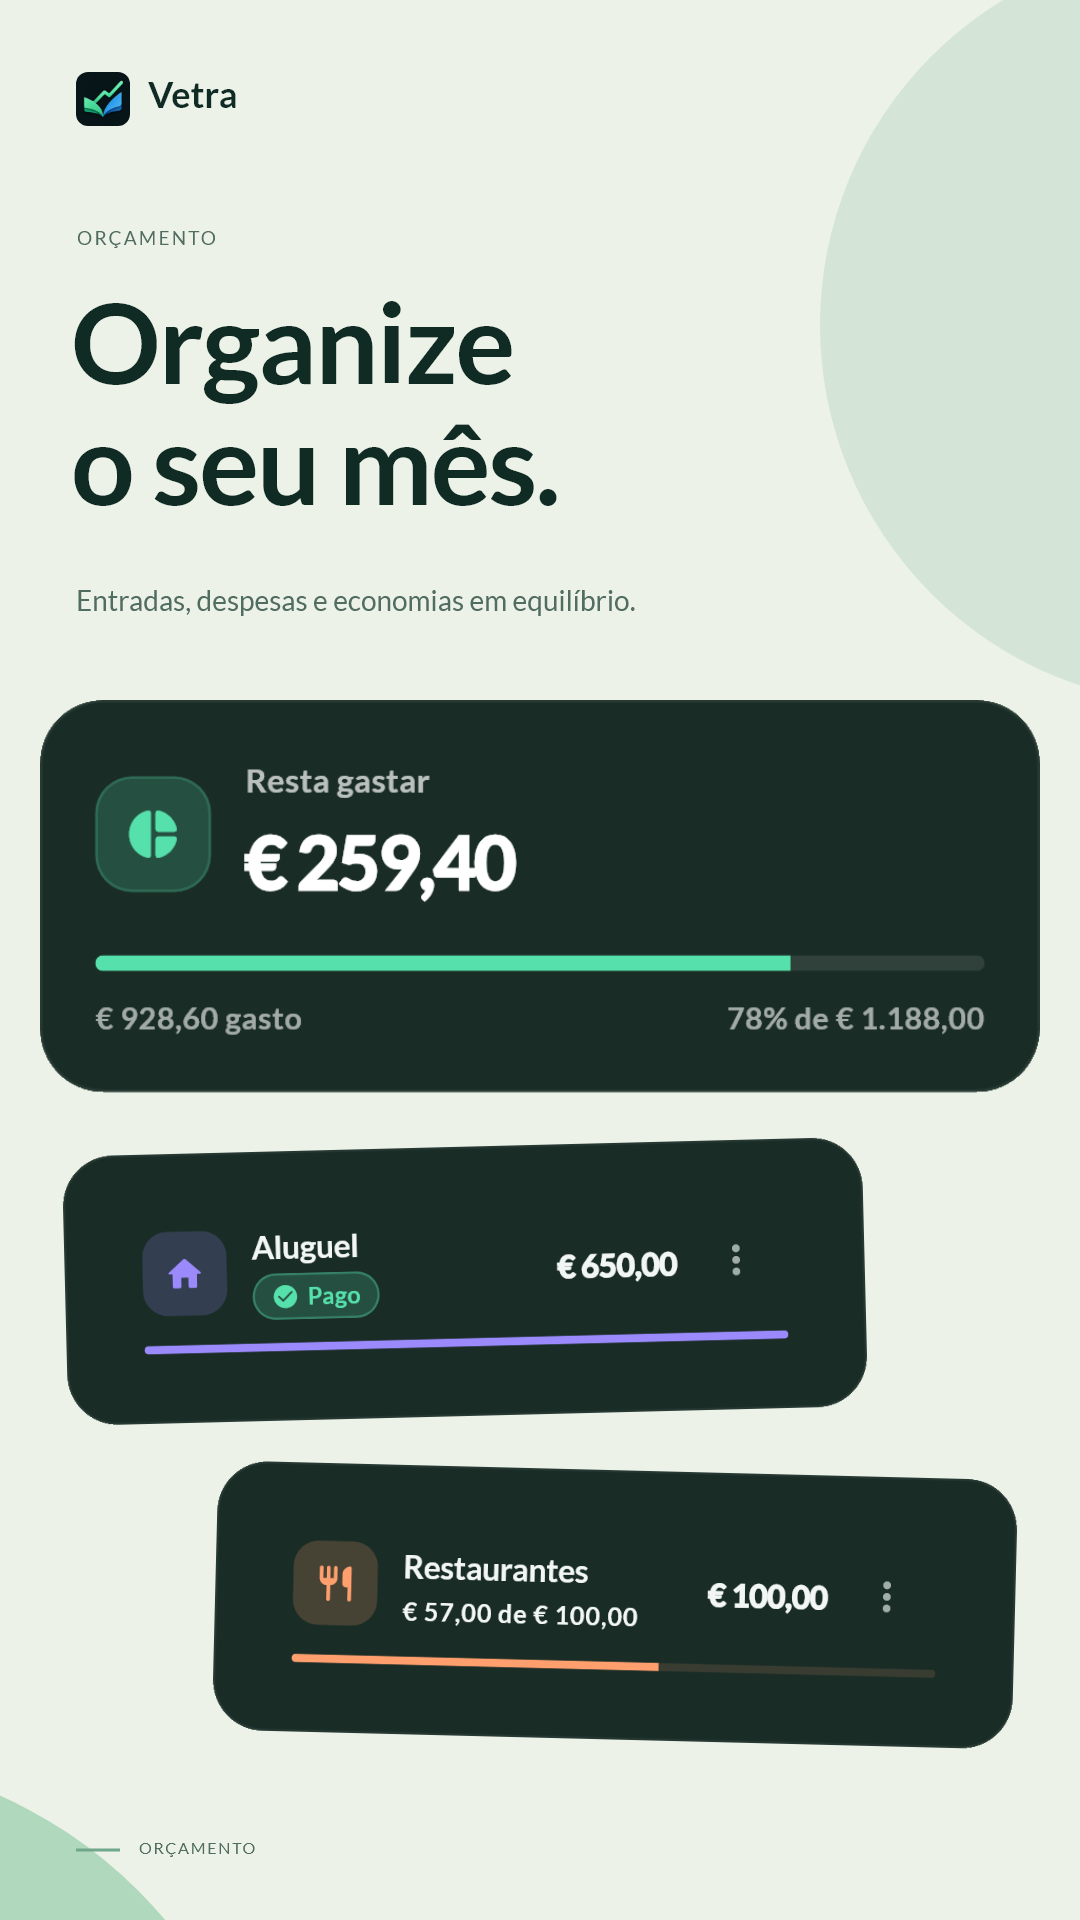
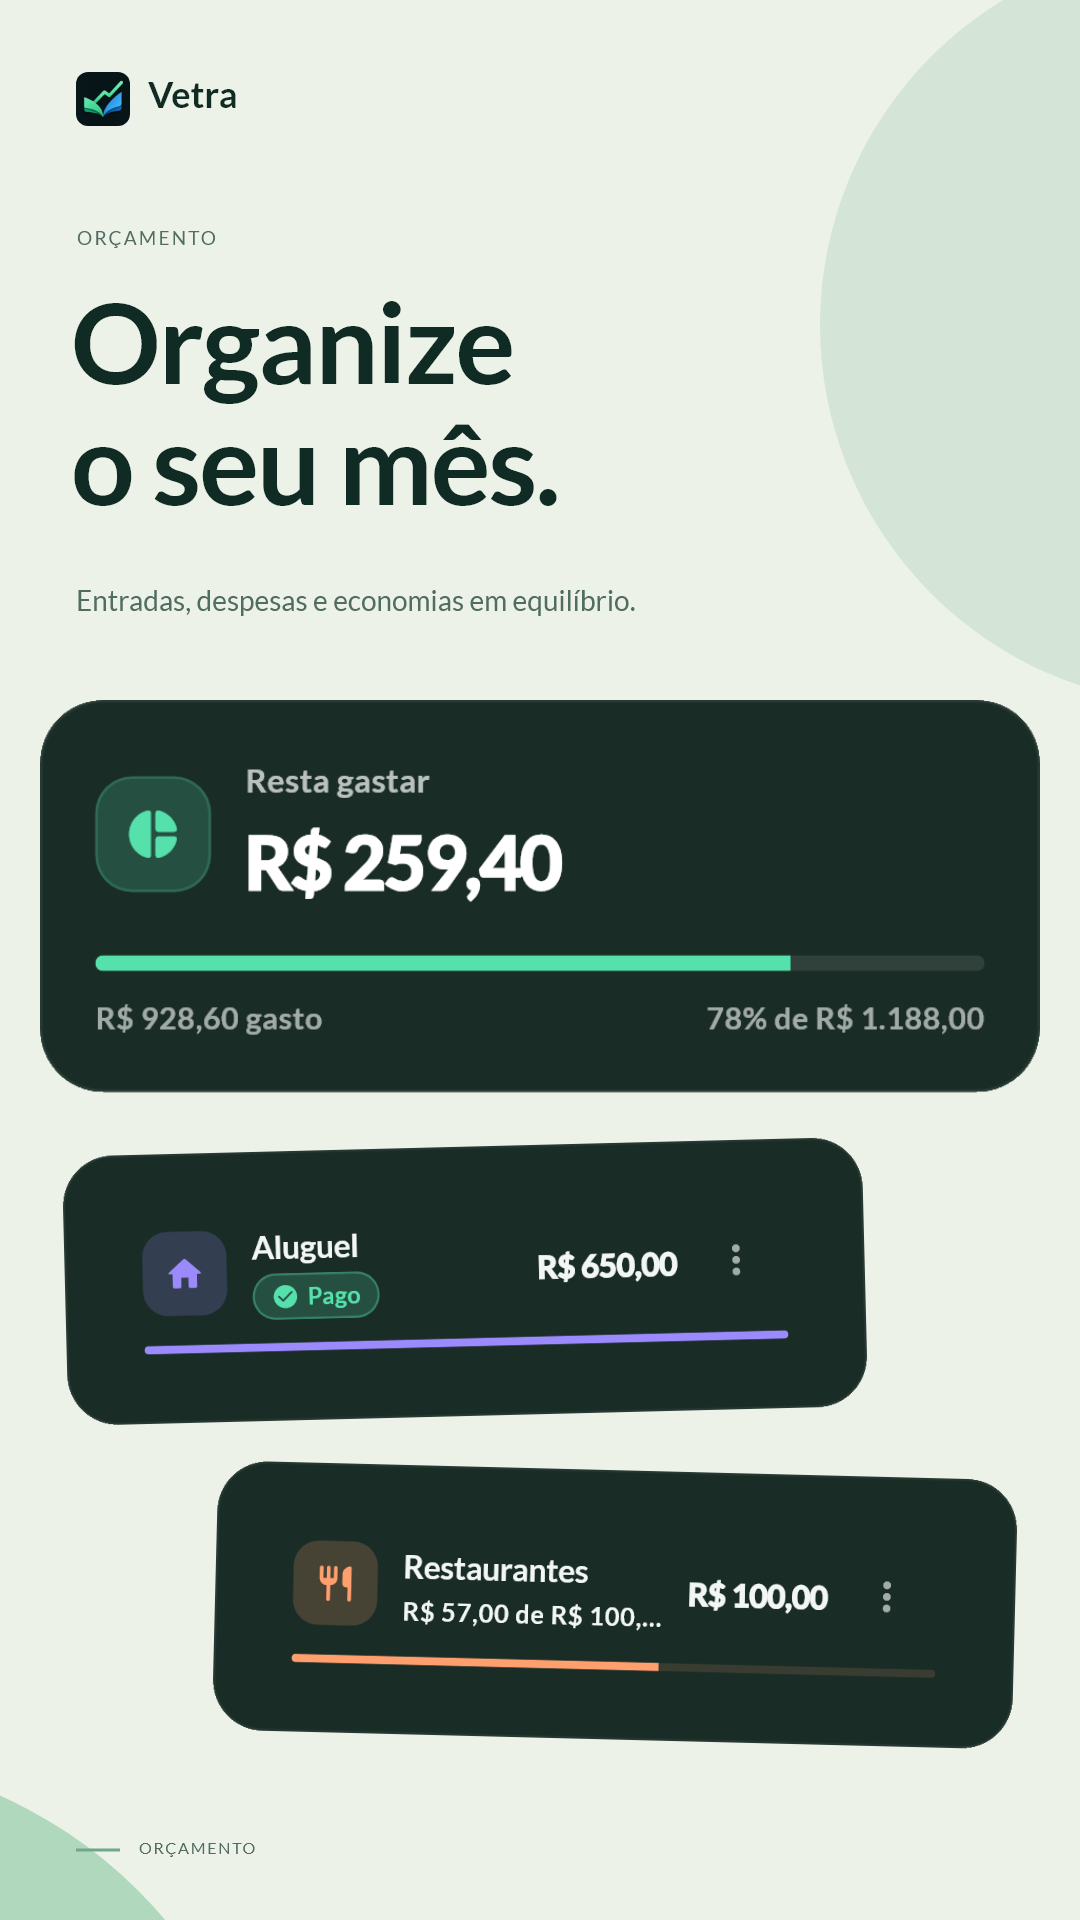
feat(locale): add British English and regional app artwork

diff --git a/src/content/translations/en.ts b/src/content/translations/en.ts
@@ -2,14 +2,14 @@ import type { SiteCopy } from '../types';
 export default {
   meta: {
     description:
-      'Organise expenses, plan your month and make room for savings. Discover Vetra, your personal finance app without ads, with optional cloud sync.',
+      'Organize expenses, plan your month and make room for savings. Discover Vetra, your personal finance app without ads, with optional cloud sync.',
   },
   nav: {
     features: 'Discover',
     faq: 'Questions',
     download: 'View on Google Play',
     language: 'Language',
-    theme: 'Change colour theme',
+    theme: 'Change color theme',
     skip: 'Skip to content',
   },
   hero: {
@@ -53,7 +53,7 @@ export default {
   trust: {
     eyebrow: 'YOUR MONEY. YOUR DECISIONS.',
     title: 'A calmer place for your finances.',
-    text: 'No advertising in the way. No bank connection required. You decide whether to use cloud synchronisation.',
+    text: 'No advertising in the way. No bank connection required. You decide whether to use cloud synchronization.',
     items: [
       {
         title: 'Works offline',
@@ -74,19 +74,19 @@ export default {
     items: [
       {
         title: 'Does Vetra connect to my bank?',
-        text: 'No. You register your accounts and transactions yourself. Vetra is an organiser, not a banking service.',
+        text: 'No. You register your accounts and transactions yourself. Vetra is an organizer, not a banking service.',
       },
       {
         title: 'Which currencies can I use?',
         text: 'Choose EUR, USD, GBP, CNY, CHF, AUD, CAD or BRL during onboarding. Your chosen main currency applies to your finances; changing it later is not currently available.',
       },
       {
-        title: 'Do I have to synchronise?',
+        title: 'Do I have to synchronize?',
         text: 'No. Cloud sync is optional. For local use, keep an up-to-date Vetra backup somewhere safe.',
       },
       {
         title: 'Can I use it without Internet?',
-        text: 'Yes, after initial setup. Authentication, synchronisation and other online services require Internet.',
+        text: 'Yes, after initial setup. Authentication, synchronization and other online services require Internet.',
       },
       {
         title: 'How can I try the app?',

diff --git a/tests/images.test.ts b/tests/images.test.ts
@@ -1,6 +1,7 @@
 import { describe, expect, it } from 'vitest';
 import { validateManifest } from '../tool/validate-images.mjs';
-const languages = ['en', 'pt', 'pt-BR', 'es', 'fr', 'de', 'it', 'zh-Hans'];
+const languages = ['en', 'en-GB', 'pt', 'pt-BR', 'es', 'fr', 'de', 'it', 'zh-Hans'];
+const currencyByLocale: Record<string, string> = { en: 'USD', 'en-GB': 'GBP', pt: 'EUR', 'pt-BR': 'BRL', es: 'EUR', fr: 'EUR', de: 'EUR', it: 'EUR', 'zh-Hans': 'CNY' };
 const scenes = [
   'overview',
   'transactions',
@@ -13,11 +14,14 @@ const scenes = [
 ];
 const fixture = () => ({
   status: 'complete',
+  generator: 'vetra-store-artwork-v3',
+  currencyByLocale,
   fictionalDataOnly: true,
   locales: languages,
   assets: languages.flatMap((locale) =>
     scenes.map((scene) => ({
       locale,
+      currency: currencyByLocale[locale],
       scene,
       device: 'phone',
       kind: 'artwork',
@@ -29,7 +33,14 @@ const fixture = () => ({
 });
 describe('source artwork validation', () => {
   it('accepts a complete fictional phone set', () => {
-    expect(validateManifest(fixture()).assets).toHaveLength(64);
+    expect(validateManifest(fixture()).assets).toHaveLength(72);
+  });
+  it('rejects old EUR batches and wrongly labelled regional images', () => {
+    expect(() => validateManifest({ ...fixture(), generator: 'vetra-store-artwork-v2' })).toThrow();
+    const wrong = fixture();
+    wrong.assets[0].currency = 'EUR';
+    expect(() => validateManifest(wrong)).toThrow();
+    expect(() => validateManifest({ ...fixture(), currencyByLocale: { ...currencyByLocale, en: 'EUR' } })).toThrow();
   });
   it('rejects incomplete or non-fictional sets', () => {
     expect(() => validateManifest({ ...fixture(), status: 'partial' })).toThrow();

diff --git a/src/content/translations/en-gb.ts b/src/content/translations/en-gb.ts
@@ -1,0 +1,17 @@
+import en from './en';
+import type { SiteCopy } from '../types';
+
+// Shared English copy; only regional spelling differs, never product promises.
+export default {
+  ...en,
+  meta: { description: 'Organise expenses, plan your month and make room for savings. Discover Vetra, your personal finance app without ads, with optional cloud sync.' },
+  nav: { ...en.nav, theme: 'Change colour theme' },
+  trust: { ...en.trust, text: 'No advertising in the way. No bank connection required. You decide whether to use cloud synchronisation.' },
+  faq: { ...en.faq, items: [
+    { title: 'Does Vetra connect to my bank?', text: 'No. You register your accounts and transactions yourself. Vetra is an organiser, not a banking service.' },
+    en.faq.items[1],
+    { title: 'Do I have to synchronise?', text: 'No. Cloud sync is optional. For local use, keep an up-to-date Vetra backup somewhere safe.' },
+    { title: 'Can I use it without Internet?', text: 'Yes, after initial setup. Authentication, synchronisation and other online services require Internet.' },
+    en.faq.items[4],
+  ] },
+} satisfies SiteCopy;

diff --git a/tests/browser-preferences.test.ts b/tests/browser-preferences.test.ts
@@ -5,7 +5,8 @@ describe('browser language', () => {
   it.each([
     [['pt-BR', 'en'], 'pt-br'],
     [['pt-PT'], 'pt'],
-    [['en-GB'], 'en'],
+    [['en-GB'], 'en-gb'],
+    [['en-US'], 'en'],
     [['es-MX'], 'es'],
     [['fr-CA'], 'fr'],
     [['de-CH'], 'de'],
@@ -19,6 +20,11 @@ describe('browser language', () => {
   });
   it('keeps manual English when the browser prefers Portuguese', () => {
     expect(preferences.languageRedirect('/Vetra_webpage/', ['pt'], 'en')).toBeNull();
+  });
+  it('keeps manual American English on a British browser', () => {
+    expect(preferences.languageRedirect('/Vetra_webpage/', ['en-GB'], 'en')).toBeNull();
+    expect(preferences.languageRedirect('/Vetra_webpage/', ['en-GB'], null)).toBe('/Vetra_webpage/en-gb/');
+    expect(preferences.languageRedirect('/Vetra_webpage/en-gb/', ['en-US'], 'en')).toBeNull();
   });
   it('redirects the default page but respects an explicitly localized link', () => {
     expect(preferences.languageRedirect('/Vetra_webpage/', ['pt'], null)).toBe(

diff --git a/src/content/locales.ts b/src/content/locales.ts
@@ -3,7 +3,8 @@ import type { LocaleId } from './types';
 export type { LocaleId } from './types';
 
 export const locales: { id: LocaleId; label: string; lang: string; capture: string }[] = [
-  { id: 'en', label: 'English', lang: 'en', capture: 'en' },
+  { id: 'en', label: 'English (United States)', lang: 'en-US', capture: 'en' },
+  { id: 'en-gb', label: 'English (United Kingdom)', lang: 'en-GB', capture: 'en-GB' },
   { id: 'pt', label: 'Português', lang: 'pt-PT', capture: 'pt' },
   { id: 'pt-br', label: 'Português (Brasil)', lang: 'pt-BR', capture: 'pt-BR' },
   { id: 'es', label: 'Español', lang: 'es', capture: 'es' },
@@ -21,7 +22,8 @@ export function privacyPath(locale: LocaleId, anchor?: string): string {
   return `${localePath(locale)}privacy.html${anchor ? `#${encodeURIComponent(anchor)}` : ''}`;
 }
 export const flagFiles: Record<LocaleId, string> = {
-  en: 'en',
+  en: 'en_us',
+  'en-gb': 'en_gb',
   pt: 'pt',
   'pt-br': 'pt_br',
   es: 'es',

diff --git a/src/content/privacy/index.ts b/src/content/privacy/index.ts
@@ -1,4 +1,5 @@
 import en from './en';
+import enGB from './en-gb';
 import pt from './pt';
 import ptBR from './pt-br';
 import es from './es';
@@ -9,7 +10,7 @@ import zh from './zh';
 import type { LocaleId } from '../types';
 import type { PrivacyCopy } from './types';
 
-const policies: Record<LocaleId, PrivacyCopy> = { en, pt, 'pt-br': ptBR, es, fr, de, it, zh };
+const policies: Record<LocaleId, PrivacyCopy> = { en, 'en-gb': enGB, pt, 'pt-br': ptBR, es, fr, de, it, zh };
 export const getPrivacy = (locale: LocaleId): PrivacyCopy => policies[locale];
 export const controller = { name: 'Henrique Correia', updated: '2026-10-08' } as const;
 export const providerLinks = [

diff --git a/src/content/copy.ts b/src/content/copy.ts
@@ -1,5 +1,6 @@
 import type { LocaleId, SiteCopy } from './types';
 import en from './translations/en';
+import enGB from './translations/en-gb';
 import pt from './translations/pt';
 import ptBr from './translations/pt-br';
 import es from './translations/es';
@@ -8,5 +9,5 @@ import de from './translations/de';
 import it from './translations/it';
 import zh from './translations/zh';
 
-export const allCopy: Record<LocaleId, SiteCopy> = { en, pt, 'pt-br': ptBr, es, fr, de, it, zh };
+export const allCopy: Record<LocaleId, SiteCopy> = { en, 'en-gb': enGB, pt, 'pt-br': ptBr, es, fr, de, it, zh };
 export const getCopy = (locale: LocaleId): SiteCopy => allCopy[locale];

diff --git a/src/scripts/preferences.ts b/src/scripts/preferences.ts
@@ -48,6 +48,7 @@ export function browserLocale(languages: readonly string[]): LocaleId {
     )
       continue;
     if (language === 'pt' && parts.includes('br')) return 'pt-br';
+    if (language === 'en' && parts.includes('gb')) return 'en-gb';
     const found = locales.find((item) => item.id === language);
     if (found) return found.id;
   }

diff --git a/src/content/types.ts b/src/content/types.ts
@@ -1,4 +1,4 @@
-export type LocaleId = 'en' | 'pt' | 'pt-br' | 'es' | 'fr' | 'de' | 'it' | 'zh';
+export type LocaleId = 'en' | 'en-gb' | 'pt' | 'pt-br' | 'es' | 'fr' | 'de' | 'it' | 'zh';
 export type Section = { eyebrow: string; title: string; text: string };
 export type Item = { title: string; text: string };
 export type SiteCopy = {

diff --git a/tests/build.test.ts b/tests/build.test.ts
@@ -8,7 +8,8 @@ function output() {
   const root = mkdtempSync(join(tmpdir(), 'vetra-site-test-'));
   roots.push(root);
   for (const [path, lang] of [
-    ['', 'en'],
+    ['', 'en-US'],
+    ['en-gb', 'en-GB'],
     ['pt', 'pt-PT'],
     ['pt-br', 'pt-BR'],
     ['es', 'es'],

diff --git a/tests/locales.test.ts b/tests/locales.test.ts
@@ -11,6 +11,7 @@ describe('localized navigation', () => {
     expect(Object.keys(allCopy).sort()).toEqual([
       'de',
       'en',
+      'en-gb',
       'es',
       'fr',
       'it',

diff --git a/src/content/privacy/en-gb.ts b/src/content/privacy/en-gb.ts
@@ -1,0 +1,2 @@
+// The same processing, controller and rights apply. No new jurisdiction claims.
+export { default } from './en';
